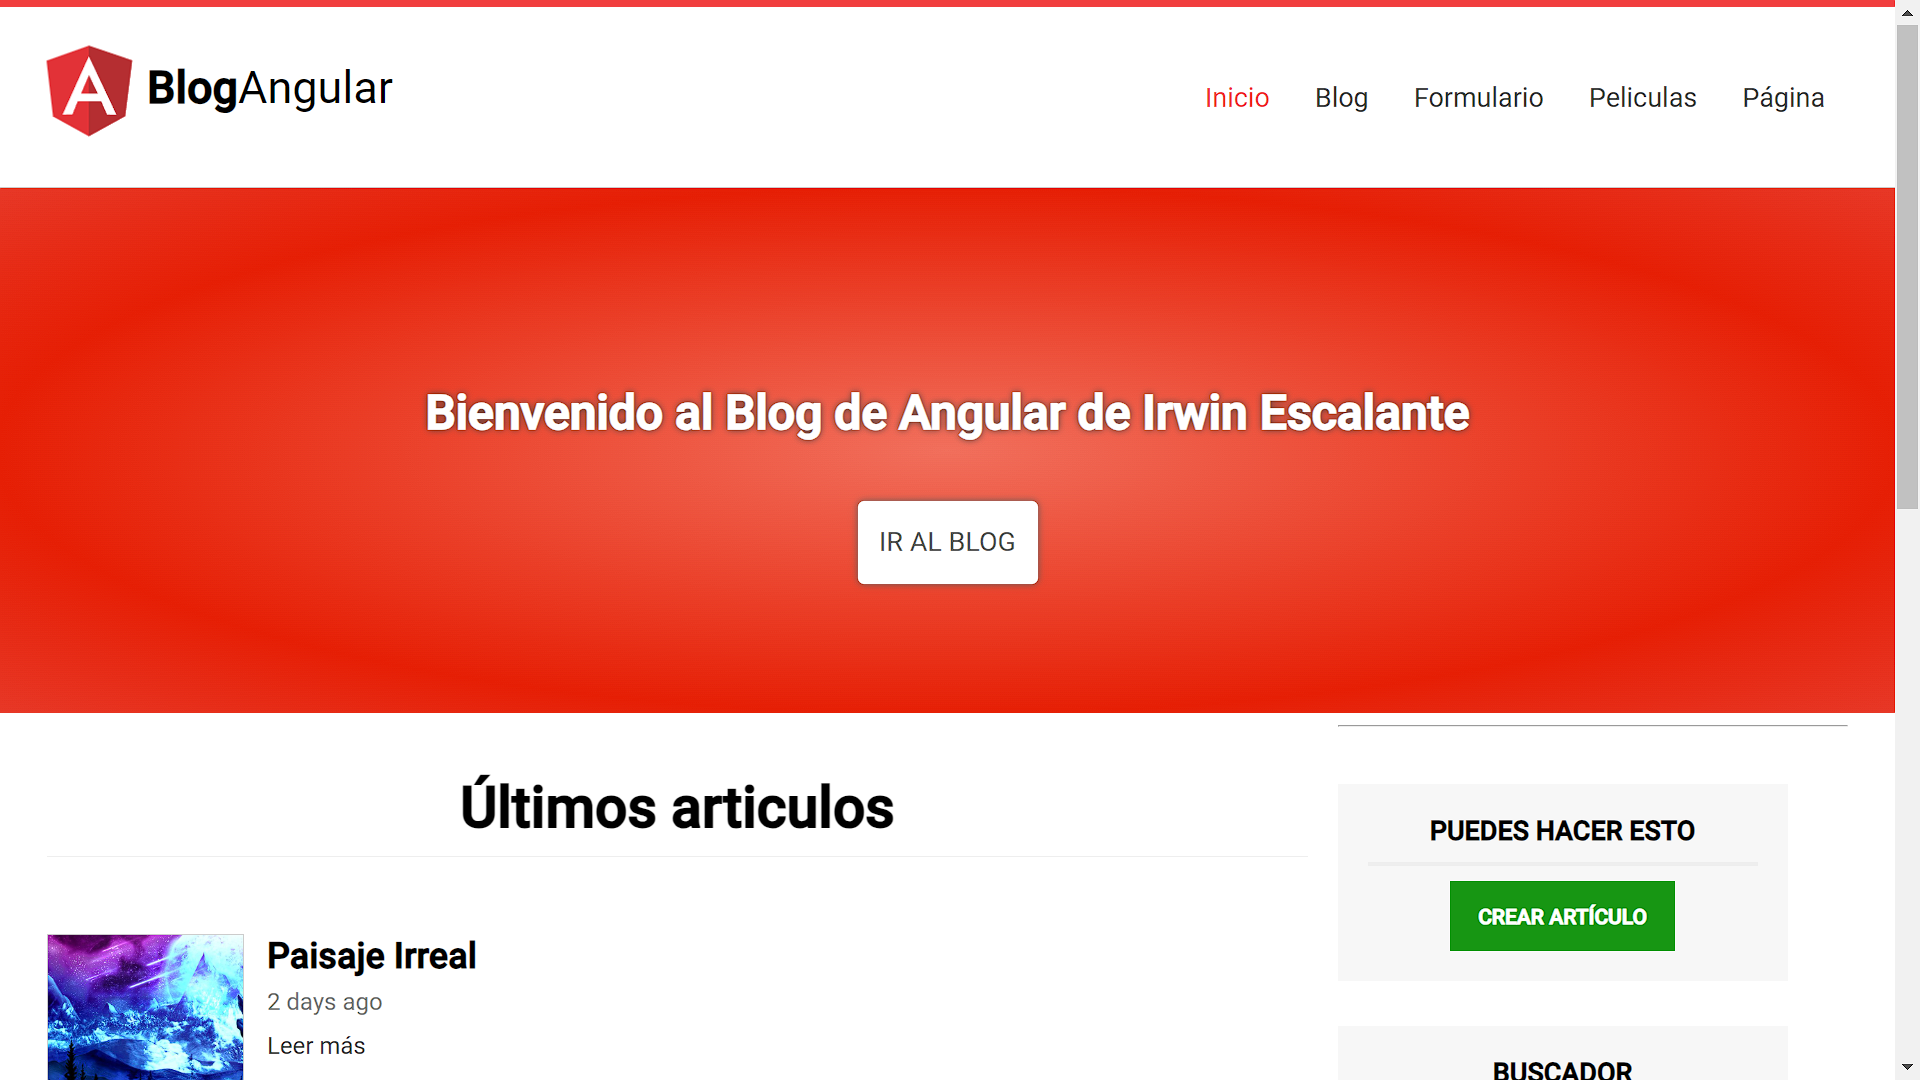
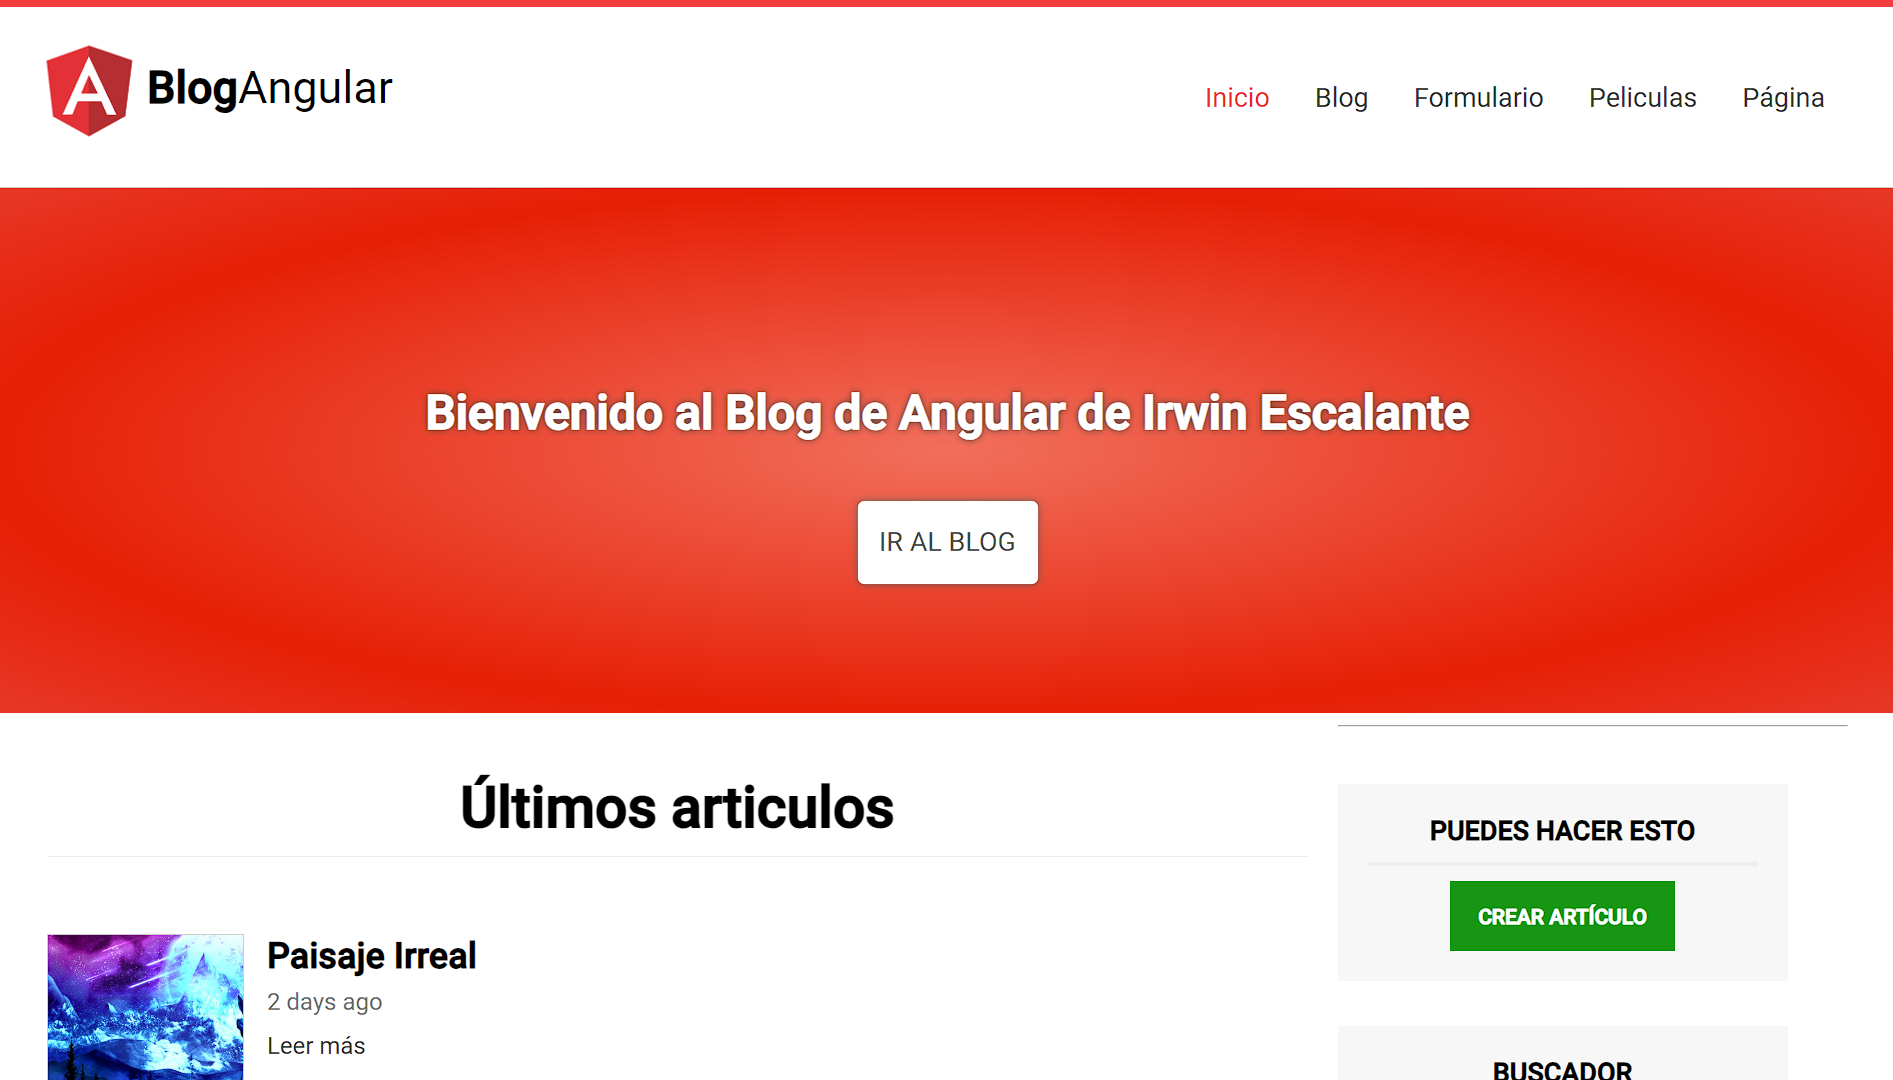
Correction on the size of the image of Angular Project

diff --git a/css/style.css b/css/style.css
@@ -290,7 +290,7 @@ a {
     max-width: 50%;
 }
 
-.blogcafe, .simulador, .frontendstore, .calculadora {
+.blogcafe, .simulador, .frontendstore, .calculadora, .blog-app {
     display: grid;
     grid-template-columns: 1fr 1fr;
 }
